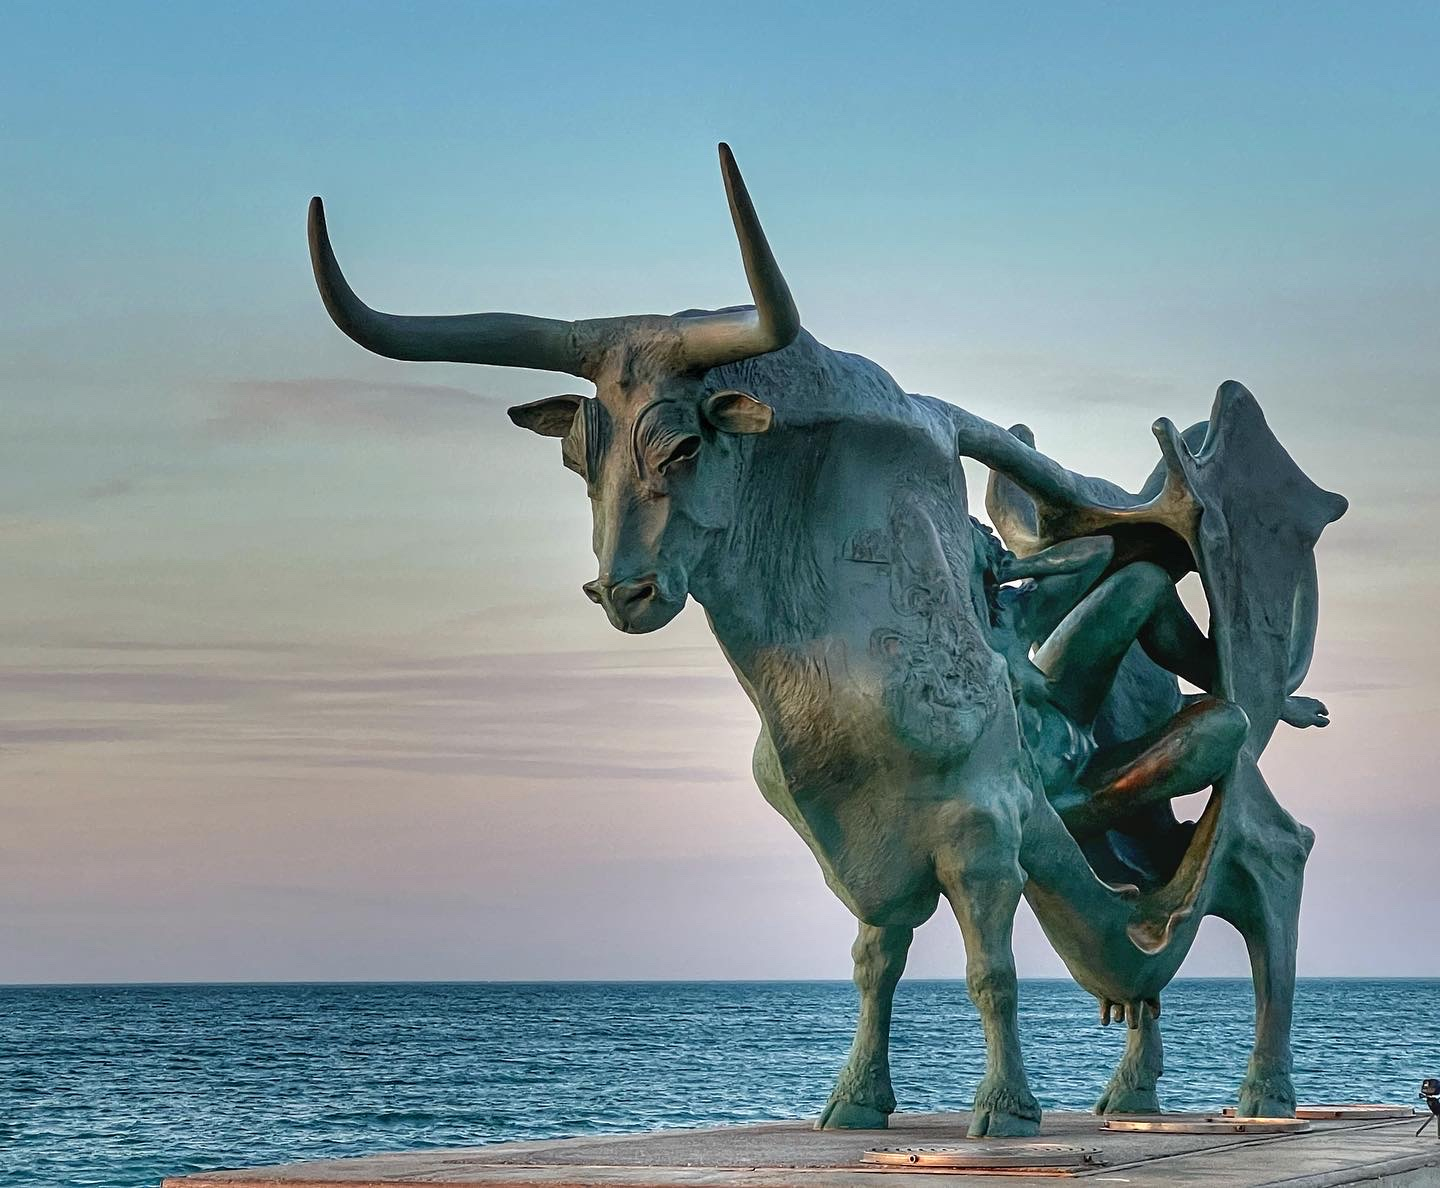
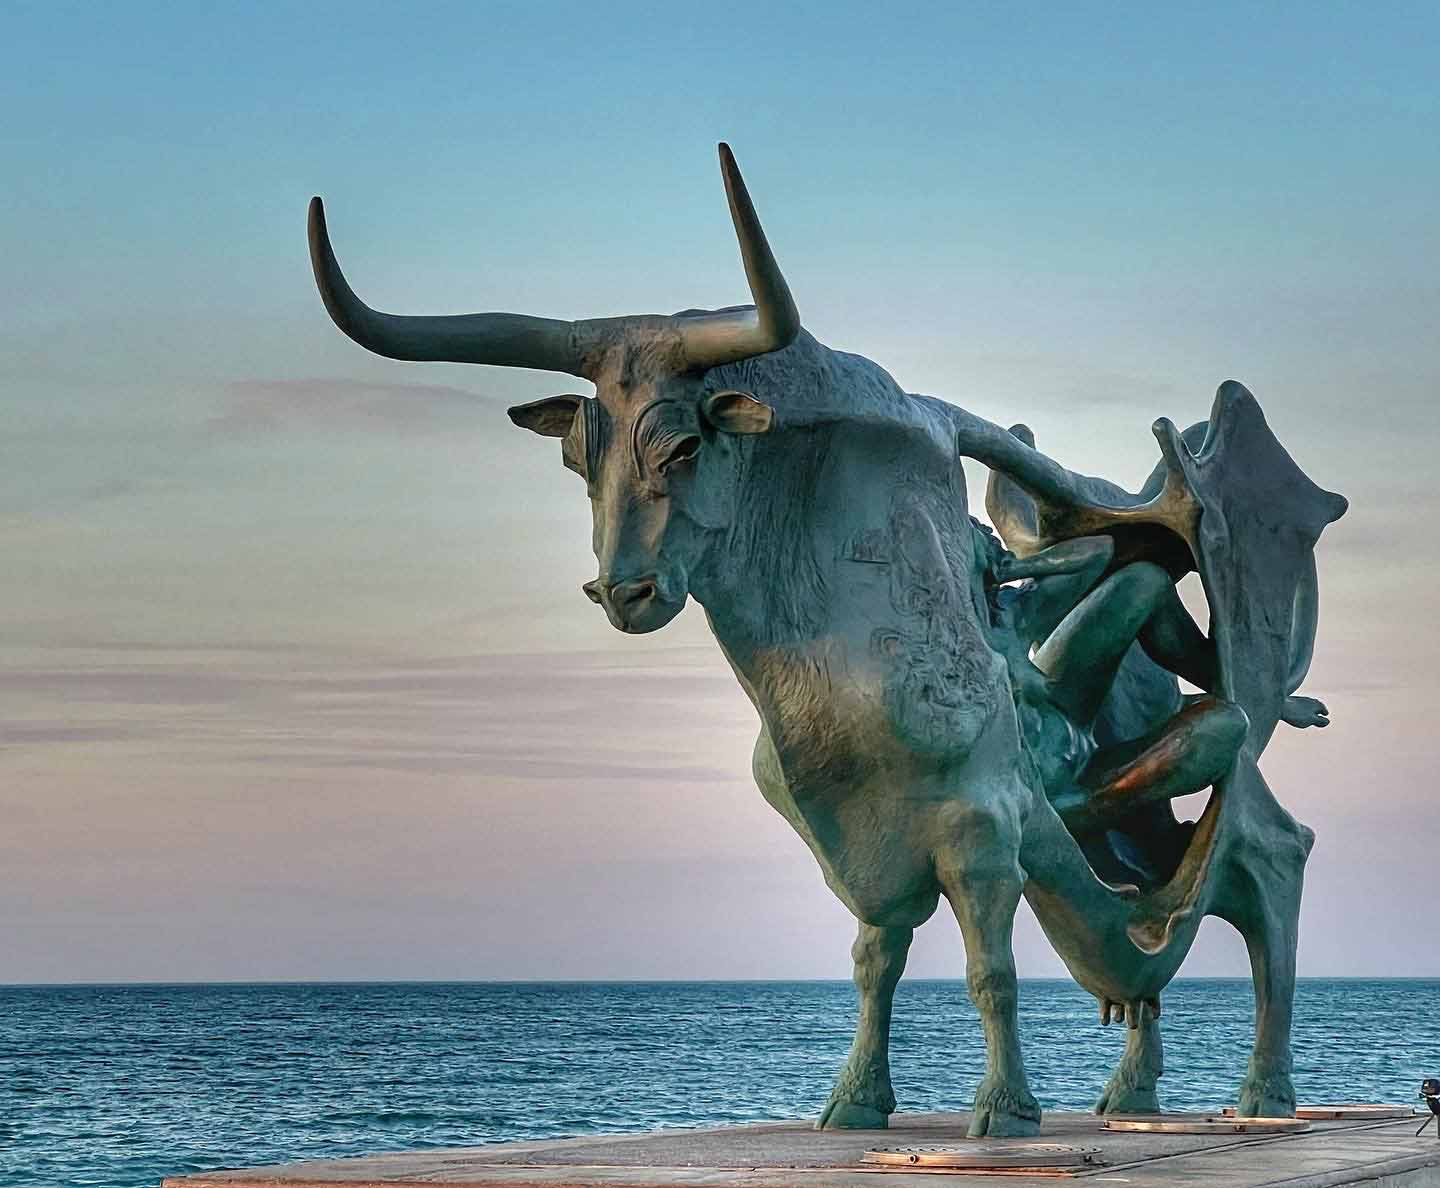
more resize images

diff --git a/index.html b/index.html
@@ -11,8 +11,8 @@
     <meta name="description" content="SONAR Wines és un projecte únic i innovador que uneix la tradició mil·lenària vinícola del Penedès amb la bellesa natural de les aigües del Mediterrani. El nostre celler submarí es troba a les costes de Vilanova i la Geltrú, al cor de la comarca del Garraf, un territori amb una rica història pesquera i vitivinícola que es remunta a temps immemorials." />
     <meta name="og:description" content="SONAR Wines és un projecte únic i innovador que uneix la tradició mil·lenària vinícola del Penedès amb la bellesa natural de les aigües del Mediterrani. El nostre celler submarí es troba a les costes de Vilanova i la Geltrú, al cor de la comarca del Garraf, un territori amb una rica història pesquera i vitivinícola que es remunta a temps immemorials." />
     <meta name="twitter:description" content="SONAR Wines és un projecte únic i innovador que uneix la tradició mil·lenària vinícola del Penedès amb la bellesa natural de les aigües del Mediterrani. El nostre celler submarí es troba a les costes de Vilanova i la Geltrú, al cor de la comarca del Garraf, un territori amb una rica història pesquera i vitivinícola que es remunta a temps immemorials." />
-    <meta name="og:image" content="assets/uploads/sonarrrss.png?p=hskdur" />
-    <meta name="twitter:image" content="assets/uploads/sonarrrss.png?p=hskdur" />
+    <meta name="og:image" content="assets/uploads/sonarrrss.jpg?p=owlskyrT" />
+    <meta name="twitter:image" content="assets/uploads/sonarrrss.jpg?p=owlskyrT" />
     <link rel="preconnect" href="https://fonts.gstatic.com/" crossorigin>
             <!-- Compressed Styles -->
         <link href="css/slides.min.css?611360" rel="stylesheet" type="text/css" id="js-slides-css">
@@ -52,14 +52,14 @@
 <meta property="og:url" content="https://sonar.wine/">
 <meta property="og:title" content="SONAR wines — De la Vinya al Fons del Mar: una Història d'Amor entre dos Mons">
 <meta property="og:description" content="SONAR Wines és un projecte únic i innovador que uneix la tradició mil·lenària vinícola del Penedès amb la bellesa natural de les aigües del Mediterrani. El nostre celler submarí es troba a les costes de Vilanova i la Geltrú, al cor de la comarca del Garraf, un territori amb una rica història pesquera i vitivinícola que es remunta a temps immemorials.">
-<meta property="og:image" content="assets/uploads/sonarrrss.png?p=hskdur">
+<meta property="og:image" content="assets/uploads/sonarrrss.png?p=owlskyrT">
 
 <!-- Twitter -->
 <meta property="twitter:card" content="summary_large_image">
 <meta property="twitter:url" content="https://sonar.wine/">
 <meta property="twitter:title" content="SONAR wines — De la Vinya al Fons del Mar: una Història d'Amor entre dos Mons">
 <meta property="twitter:description" content="SONAR Wines és un projecte únic i innovador que uneix la tradició mil·lenària vinícola del Penedès amb la bellesa natural de les aigües del Mediterrani. El nostre celler submarí es troba a les costes de Vilanova i la Geltrú, al cor de la comarca del Garraf, un territori amb una rica història pesquera i vitivinícola que es remunta a temps immemorials.">
-<meta property="twitter:image" content="assets/uploads/sonarrrss.png?p=hskdur">
+<meta property="twitter:image" content="assets/uploads/sonarrrss.png?p=owlskyrT">
 <link rel="apple-touch-icon" sizes="180x180" href="assets/uploads/apple-touch-icon.png">
 <link rel="icon" type="image/png" sizes="32x32" href="assets/uploads/favicon-32x32.png">
 <link rel="icon" type="image/png" sizes="16x16" href="assets/uploads/favicon-16x16.png">
@@ -321,7 +321,7 @@
       </div>
     </div>
   </div>
-  <div class="background" style="background-image:url(assets/uploads/hiroko-yoshii-9y7y26c-l4y-unsplash.jpg?p=hskdur)"></div>
+  <div class="background" style="background-image:url(assets/uploads/hiroko-yoshii-9y7y26c-l4y-unsplash.jpg?p=owlskyrT)"></div>
 </section>
 <!-- Slide 10 (#2) -->
 <section class="slide fade-6 kenBurns" id="viatge">
@@ -337,7 +337,7 @@
       </div>
     </div>
   </div>
-  <div class="background" style="background-image:url(assets/uploads/portvng.jpeg?p=hskdur)"></div>
+  <div class="background" style="background-image:url(assets/uploads/portvng.jpg?p=owlskyrT)"></div>
 </section>
 <!-- magia (#3) -->
 <section class="slide fade-6 kenBurns fromRight" id="magia">
@@ -355,7 +355,7 @@
       </div>  
     </div>
   </div>
-  <div class="background" style="background-image:url(assets/uploads/pasifae-front.jpg?p=hskdur)"></div>
+  <div class="background" style="background-image:url(assets/uploads/pasifae-front.jpg?p=owlskyrT)"></div>
 </section>
 <!-- diaspora (#4) -->
 <section class="slide fade-6 kenBurns fromLeft" id="diaspora">
@@ -389,7 +389,7 @@
       </div>
     </div>
   </div>
-  <div class="background" style="background-image:url(assets/uploads/toa-heftiba-a2y-wiojzzs-unsplash.jpg?p=hskdur)"></div>
+  <div class="background" style="background-image:url(assets/uploads/toa-heftiba-a2y-wiojzzs-unsplash.jpg?p=owlskyrT)"></div>
 </section>
 <!-- Example Typeform (#6) -->
 <section class="slide fade-6 kenBurns" id="contacte">
@@ -410,7 +410,7 @@
 </nav>
 
 <!-- Share Window -->
-<div class="dropdown share bottom right" data-dropdown-id="2" data-text="De la Vinya al Fons del Mar: SONAR Wines, una Història d'Amor entre dos Móns" data-url="https://sonar.wine" data-pinterest-image="assets/uploads/logo-sonar.png?p=hskdur">
+<div class="dropdown share bottom right" data-dropdown-id="2" data-text="De la Vinya al Fons del Mar: SONAR Wines, una Història d'Amor entre dos Móns" data-url="https://sonar.wine" data-pinterest-image="assets/uploads/logo-sonar.png?p=owlskyrT">
   <div class="center padding-2">
     <div class="title">Compartir</div>
   </div>
@@ -426,7 +426,7 @@
     <script src="https://ajax.googleapis.com/ajax/libs/jquery/3.6.0/jquery.min.js"></script>
     <!-- Compressed Scripts -->
     <script src="js/slides.min.js?611360" type="text/javascript"></script>
-    <script src="js/custom_MjzsmpfU.js?p=hskdur&rnd=471474"></script>    <script src="//embed.typeform.com/next/embed.js"></script>
+    <script src="js/custom_MjzsmpfU.js?p=owlskyrT&rnd=471474"></script>    <script src="//embed.typeform.com/next/embed.js"></script>
  
     
 </body>
